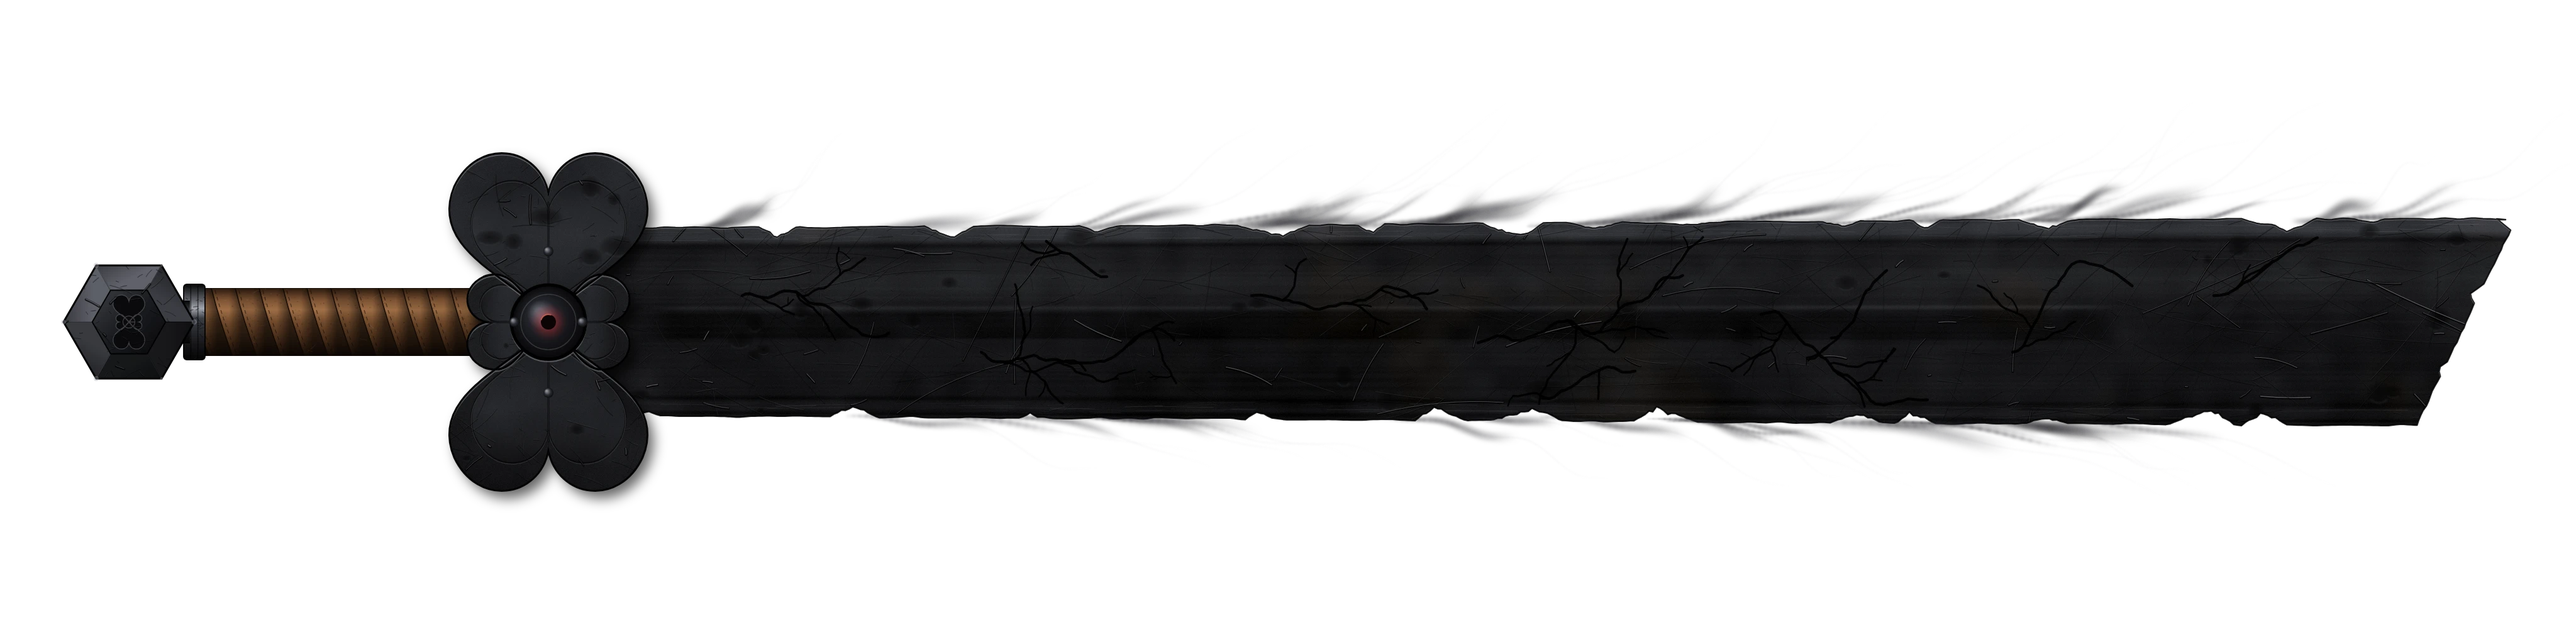
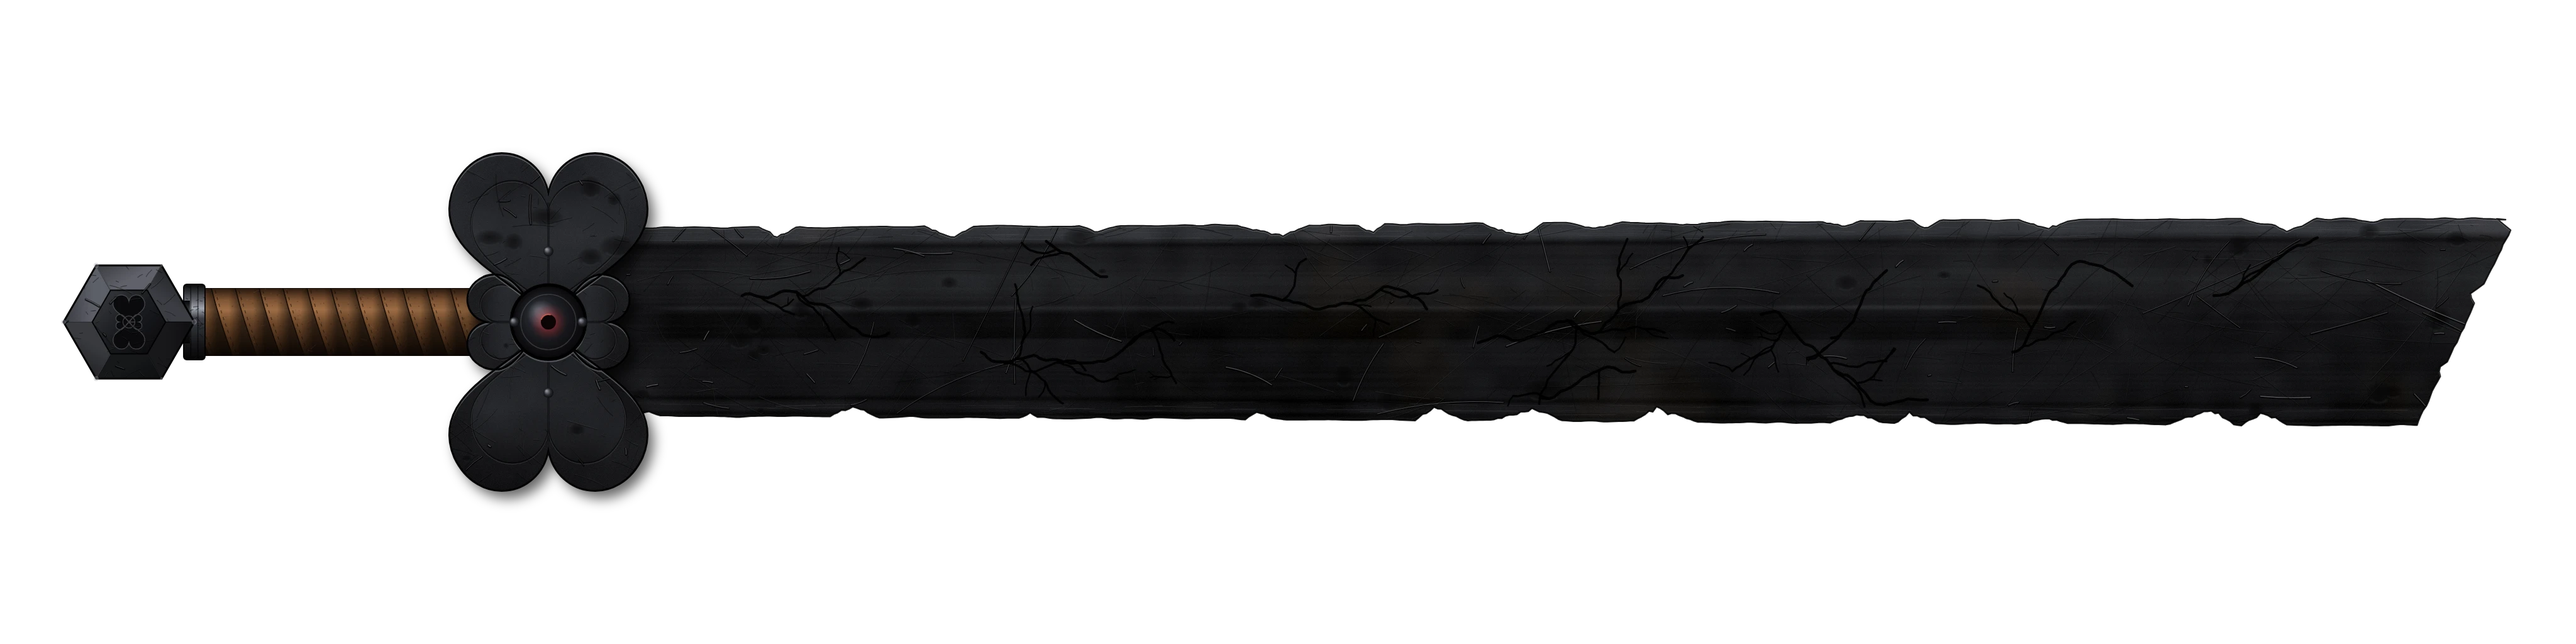
feat: export sword smoke as its own layer
Lets light mode tone the smoke down so it doesn't read as a dark fringe
on white. The flattened asset is unchanged.

Claude-Session: https://claude.ai/code/session_013dzYTzHXmRoF3JV7fkhHHU

diff --git a/scripts/sword/render.html b/scripts/sword/render.html
@@ -565,27 +565,36 @@ function drawEmbers(g) {
 }
 
 // Separate layers so a page can animate them independently:
-//   base  - the sword itself plus smoke (no emissive light)
+//   base  - the sword itself (no smoke, no emissive light)
+//   smoke - edge smoke wisps
 //   glow  - crimson crack light, already clipped to the blade
 //   fx    - floating debris and embers
 const LAYERS = {};
 function render() {
   const [base, b] = layer();
-  drawSmoke(b, false);
+  const [smokeBack, sb] = layer();
+  const [smokeFront, sf] = layer();
+  drawSmoke(sb, false);
   b.drawImage(drawBlade(), 0, 0);
   drawGrip(b);
   drawPommel(b);
   drawGuard(b);
-  drawSmoke(b, true);
+  drawSmoke(sf, true);
+  const [smoke, sm] = layer();
+  sm.drawImage(smokeBack, 0, 0); sm.drawImage(smokeFront, 0, 0);
+  LAYERS.smoke = smoke;
   const [fx, f] = layer();
   drawDebris(f);
   drawEmbers(f);
   LAYERS.base = base; LAYERS.fx = fx;
   // flattened asset
   ctx.clearRect(0, 0, W, H);
+  ctx.drawImage(smokeBack, 0, 0);
   ctx.drawImage(base, 0, 0);
   ctx.globalCompositeOperation = "lighter"; ctx.drawImage(LAYERS.glow, 0, 0);
-  ctx.globalCompositeOperation = "source-over"; ctx.drawImage(fx, 0, 0);
+  ctx.globalCompositeOperation = "source-over";
+  ctx.drawImage(smokeFront, 0, 0);
+  ctx.drawImage(fx, 0, 0);
   LAYERS.full = canvas;
 }
 window.renderSword = () => { render(); return true; };
